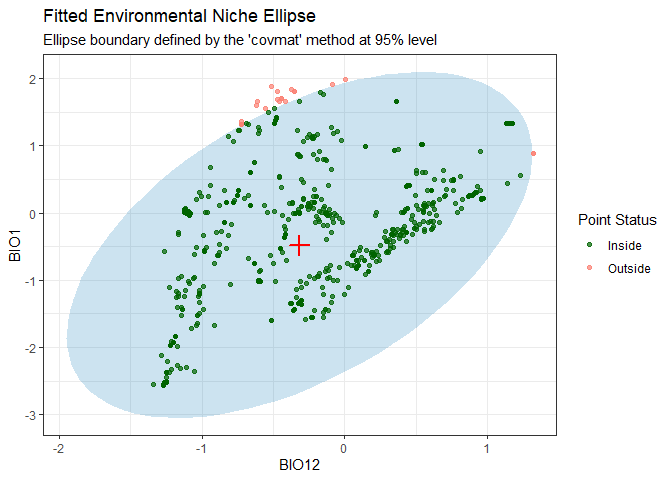
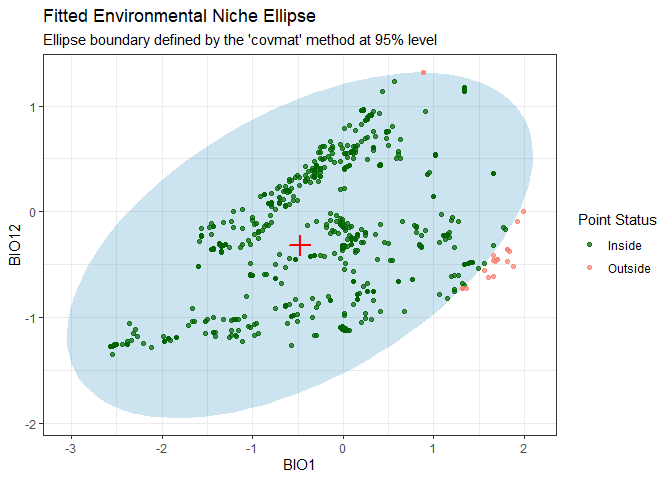
add update

diff --git a/README.md b/README.md
@@ -454,8 +454,8 @@ formalize the environmental niche by fitting a bivariate ellipse. The
 ``` r
 # Fit an ellipse that contains 95% of the thinned data
 niche_ellipse <- fit_ellipsoid(data = thinned_data$thinned_data, 
-                               var1 = "BIO12", 
-                               var2 = "BIO1", 
+                               var1 = "BIO1", 
+                               var2 = "BIO12", 
                                method = "covmat", 
                                level = 95)
 # The returned object contains all the details
@@ -463,12 +463,12 @@ niche_ellipse <- fit_ellipsoid(data = thinned_data$thinned_data,
 niche_ellipse
 #> --- Bean Environmental Niche Ellipse ---
 #> 
-#> Fitted to 5002 data points at a 95.00% confidence level.
+#> Fitted to 5002 data points at a 9500.00% confidence level.
 #> 4980 out of 5002 points (99.6%) fall within the ellipse boundary.
 #> 
 #> Niche Centroid (Mean Vector):
-#>      BIO12       BIO1 
-#> -0.3177522 -0.4784588
+#>       BIO1      BIO12 
+#> -0.4784588 -0.3177522
 
 # And we can use the custom plot() method for a powerful visualization
 plot(niche_ellipse)
@@ -490,7 +490,7 @@ center_niche_ellipse <- fit_ellipsoid(data = thinned_data_center$thinned_points,
 center_niche_ellipse
 #> --- Bean Environmental Niche Ellipse ---
 #> 
-#> Fitted to 289 data points at a 95.00% confidence level.
+#> Fitted to 289 data points at a 9500.00% confidence level.
 #> 283 out of 289 points (97.9%) fall within the ellipse boundary.
 #> 
 #> Niche Centroid (Mean Vector):
